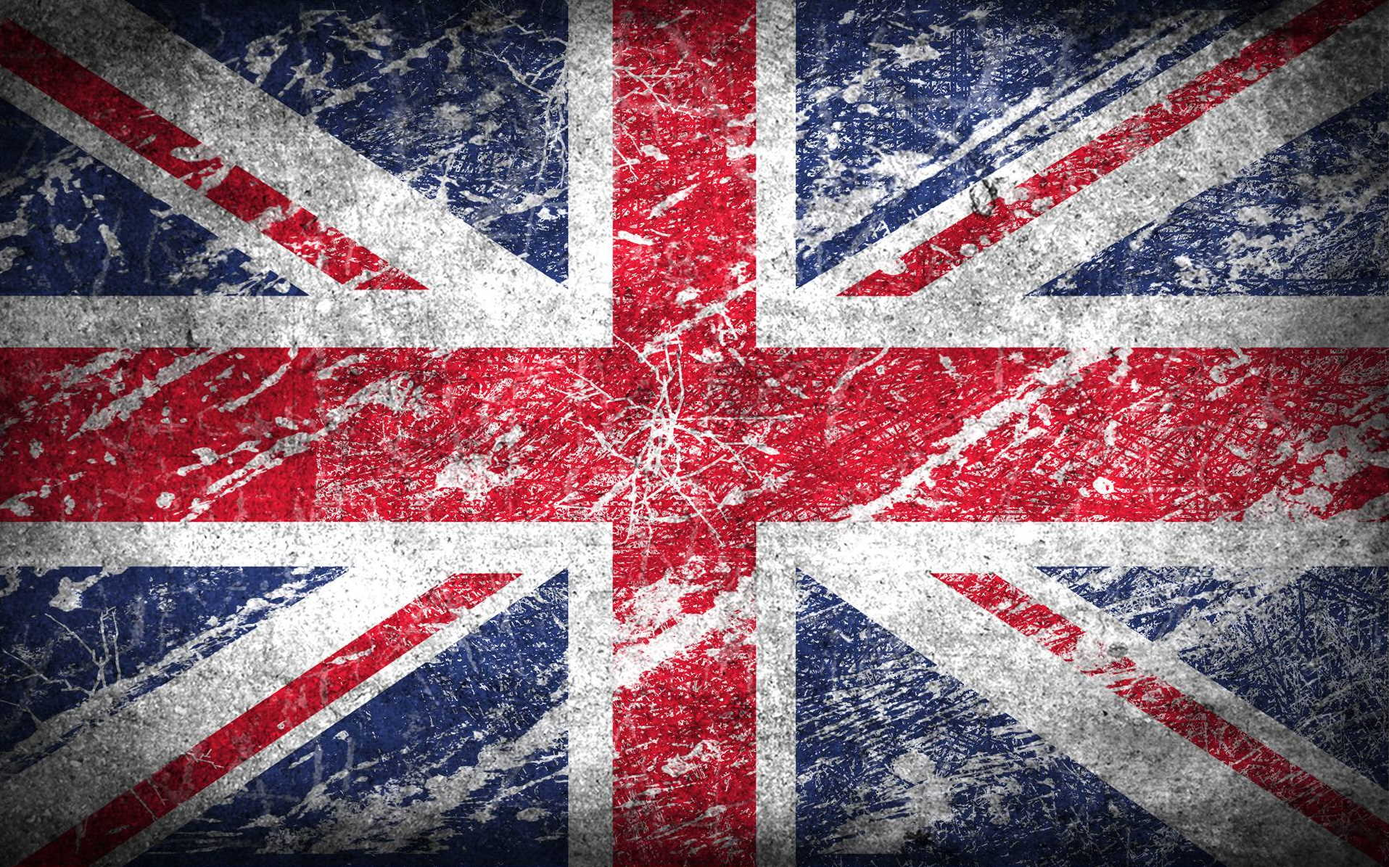
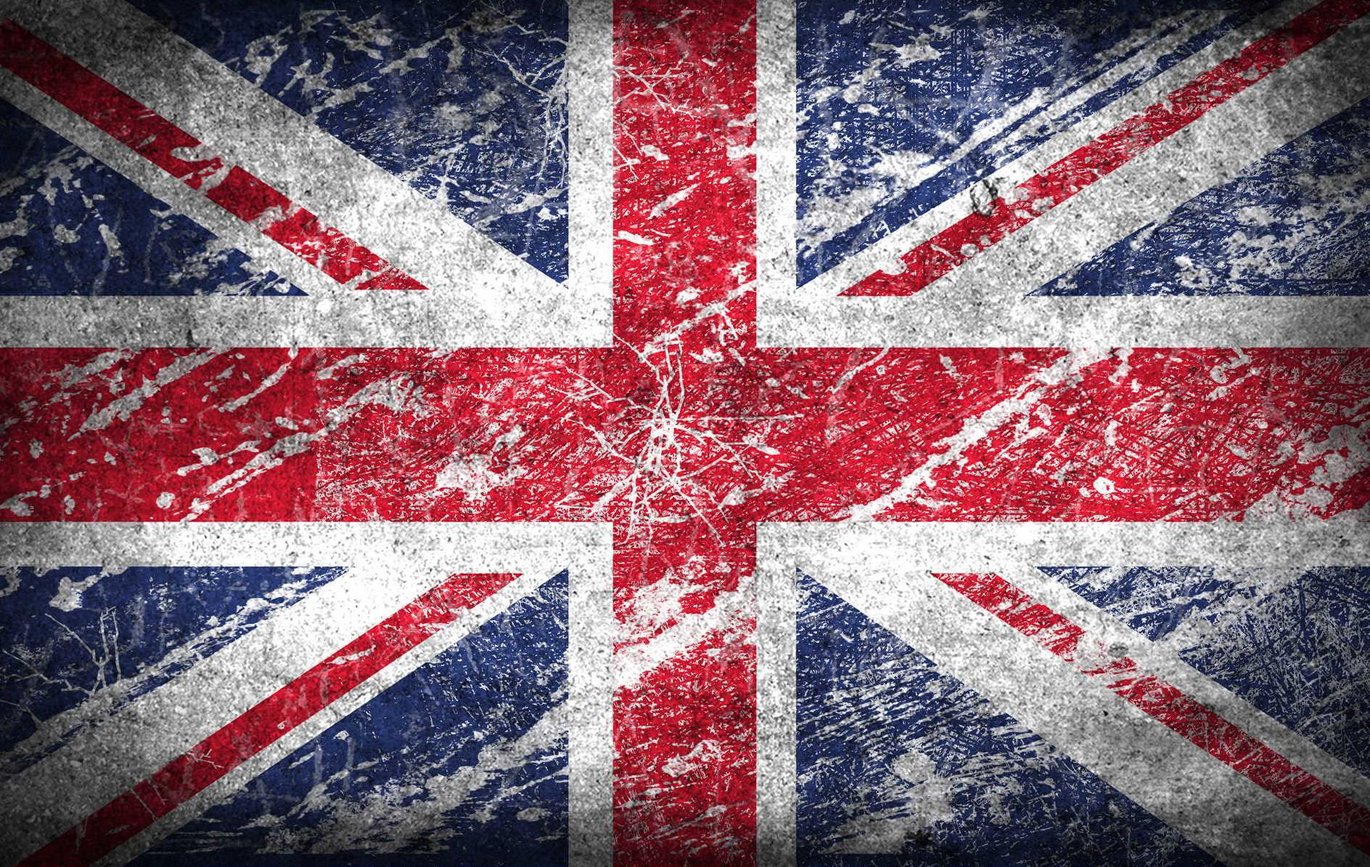
Preparado para empezar con el juego

diff --git a/TrivialWeb/css/general.css b/TrivialWeb/css/general.css
@@ -26,7 +26,7 @@
 body {
 	margin: 0;
     font-size: 12px;
-	background-image: url(../img/banderaUKcortada.jpg);
+	background-image: url(../img/banderaUK.jpg);
 	background-size: cover;
     background-repeat: no-repeat;
     background-attachment: fixed;
